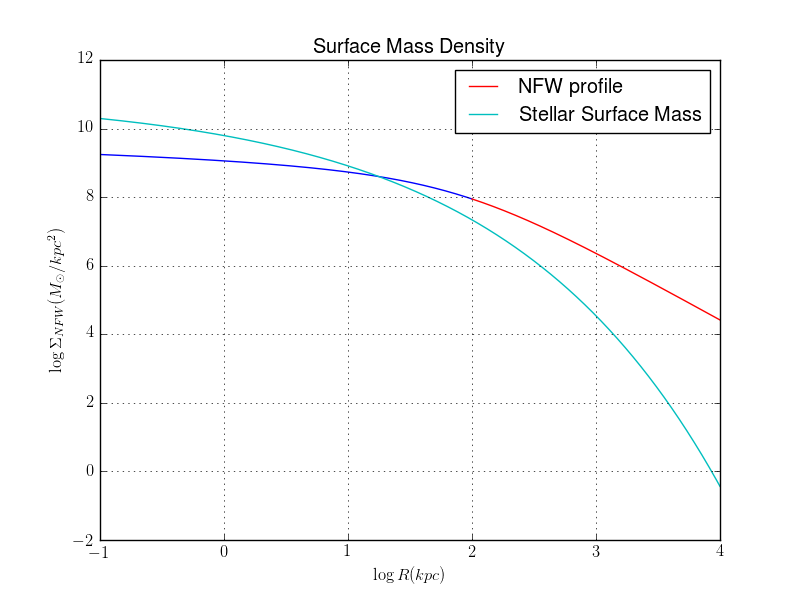
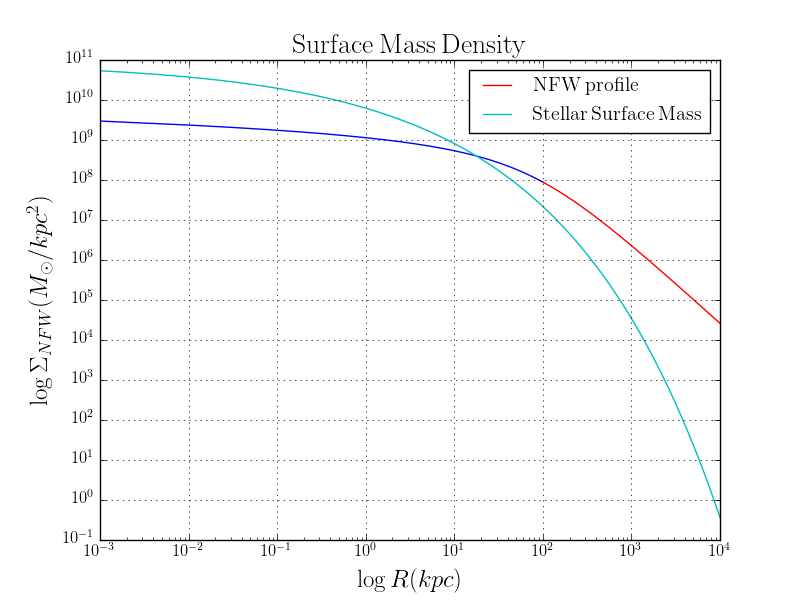
update

diff --git a/plots/Surface_density_log.py b/plots/Surface_density_log.py
@@ -1,9 +1,12 @@
-import numpy as np
-from scipy import integrate
-from scipy.integrate import quad
-import matplotlib as mpl
 import matplotlib.pyplot as plt
+import numpy as np
+import matplotlib as mpl
+import matplotlib.patches as mpatches
+from scipy.integrate import quad
+from scipy import integrate
 mpl.rcParams['text.usetex'] = True
+
+# This plot is made for the cluster ABELL 1068
 
 c        = 4.46                                      # Concentration parameter (Paper Dutton and Maccio) 
 delta_c  = ((200./3)*c**3)/(np.log(1.0+c)-c/(1.0+c)) # Characteristic overdensity of the halo
@@ -12,18 +15,16 @@ r_s      = 100                                       # Characteristic radius (kp
 I_e      = 10**7                                     # Effective brightness I(Re)
 b        = 7.67                                      # Lokas and Mamon paper
 R_e      = 73.7                                      # Half of the total light in kpc
-n_array  = [] 
-f_array  = []
-R        = np.arange(0.01, 10000, 10.)
 
-# MASS ENCLOSED BY LIGHT (DE VAUCOULEURS PROFILE)
+# Mass density profile from NFW density profile:
 
-def surf_bright(r):
-	return 8.0*np.pi*I_e*np.exp( -b*( ( r/R_e )**0.25 - 1.0 ) )
-I1, I1err = quad(surf_bright, 0.1, 10000)
-print 'Luminosity: %e' %(I1)
-# NOW FOR THE MASS OF THE NFW PROFILE
-
+r = np.arange(0.001,99.9,0.01)
+plt.loglog(r,( 2.0*r_s*delta_c*rho_c )/( (r/r_s)**2 - 1.0 ) *( 1.0 - 2.0/( np.sqrt( 1.0 - (r/r_s)**2 ) )*np.arctanh( np.sqrt( ( 1.0-r/r_s )/( 1.0 + r/r_s ) ) ) ))
+r1 = 100
+plt.loglog(r1,2.0*r_s*delta_c*rho_c/3.0)
+r2 = np.arange(100.01,10000,0.01)
+plt.loglog(r2,( 2.0*r_s*delta_c*rho_c )/( (r2/r_s)**2 - 1.0 ) *( 1.0 - 2.0/( np.sqrt( (r2/r_s)**2 - 1.0 ) )*np.arctan( np.sqrt( ( r2/r_s - 1.0 )/( 1 + r2/r_s ) ) ) ),label=r'$\mathrm{NFW\:profile}$')
+"""
 def NFW(r):
 	if (r < r_s):
 		surf_mass = 2.0*np.pi*r/r_s*( ( 2.0*r_s*delta_c*rho_c )/( (r/r_s)**2 - 1.0 ) )*( 1.0 - 2.0/( np.sqrt( 1.0 - (r/r_s)**2 ) )*np.arctanh( np.sqrt( ( 1.0-r/r_s )/( 1.0 + r/r_s ) ) ) )
@@ -32,28 +33,16 @@ def NFW(r):
 	else:
 		surf_mass = 2.0*np.pi*r/r_s*( ( 2.0*r_s*delta_c*rho_c )/( (r/r_s)**2 - 1.0 ) )*( 1.0 - 2.0/( np.sqrt( (r/r_s)**2 - 1.0 ) )*np.arctan( np.sqrt( ( r/r_s - 1.0 )/( 1 + r/r_s ) ) ) )
 	return surf_mass
-I2, I2err = quad(NFW, 0.01, 10000)
-print 'Dark Matter: %e' %(I2)
-	
-def F(val):
-  h = lambda x: surf_bright(x)
-  return integrate.quad(h, 0.1, val)[0]
+"""
+# Mass density profile from M/L ratio and de Vaucouleurs profile:
 
-def N(val):
-  g = lambda y: NFW(y)
-  return integrate.quad(g, 0.1, val)[0]
-      
-for i in range(len(R)):
-   f_array.append(np.log10(F(R[i])))
-   n_array.append(np.log10(N(R[i])))
-    
-plt.plot(np.log10(R), f_array, '-', c = 'r', label = r'$\mathrm{Stellar\:Mass}$')
-plt.plot(np.log10(R), n_array, '-', c = 'b', label = r'$\mathrm{NFW\:Profile\:Mass}$')
+R = np.arange(0.001,10000,0.001)
+plt.loglog(R,4.*I_e*np.exp( -b*( ( R/R_e )**0.25 - 1. ) ),label=r'$\mathrm{Stellar\:Surface\:Mass}$')  #4*I(R) where I(R) is de Vaucouleurs
+
 plt.xlabel(r'$\log R(kpc)$',fontsize=18)
-plt.ylabel(r'$\log M_{\odot }$',fontsize=18)
-plt.title(r'$\mathrm{Enclosed\:Mass}$',fontsize=18)
+plt.ylabel(r'$\log \Sigma_{NFW}(M_{\odot }/ kpc^{2})$',fontsize=18)
+plt.title(r'$\mathrm{Surface\:Mass\:Density}$',fontsize=20)
 plt.grid(True)
-plt.legend(bbox_to_anchor=(0.95, 0.2), loc=1, borderaxespad=0.)
-plt.savefig("Enclosed Mass.png")
-plt.show()
-plt.show()      
+plt.legend()
+plt.savefig("Surface_mass_density_log.png")
+plt.show() 

diff --git a/plots/surface_density_r_025.py b/plots/surface_density_r_025.py
@@ -8,53 +8,31 @@ mpl.rcParams['text.usetex'] = True
 
 # This plot is made for the cluster ABELL 1068
 
-c        = 4.46           # concentration parameter (Paper Dutton and Maccio) this was checked many times 
-delta_c = (200./3)*(c**3)/(np.log(1+c)-c/(1+c))
-rho_c    = 197.8            # Critical density in M_sun/kpc^3 (197.8)
-r_s      = 100            # Characteristic radius (pc) 
-I_e = 10**7
-b        = 7.67           # Lokas and Mamon paper
-R_e      = 73.7             # Half of the total light in kpc
+c        = 4.46                                      # Concentration parameter (Paper Dutton and Maccio) 
+delta_c  = ((200./3)*c**3)/(np.log(1.0+c)-c/(1.0+c)) # Characteristic overdensity of the halo
+rho_c    = 197.8                                     # Critical density in M_sun/kpc^3 (197.8)
+r_s      = 100                                       # Characteristic radius (kpc) 
+I_e      = 10**7                                     # Effective brightness I(Re)
+b        = 7.67                                      # Lokas and Mamon paper
+R_e      = 73.7                                      # Half of the total light in kpc
 
 # Mass density profile from NFW density profile:
 
-x1 = np.arange(0.001,1,0.0001)
+x1 = np.arange(0.001,1,0.001)
 plt.plot((x1*r_s)**0.25,np.log10(((2*r_s*delta_c*rho_c)/((x1*x1)-1))*(1-(2)/(np.sqrt(1-(x1*x1)))*np.arctanh(np.sqrt((1-x1)/(1+x1))))))
 x2 = 1
 plt.plot((x2*r_s)**0.25,np.log10((2*r_s*delta_c*rho_c)/3))
-x3 = np.arange(1.0001,100,0.0001)
-plt.plot((x3*r_s)**0.25,np.log10(((2*r_s*delta_c*rho_c)/((x3*x3)-1))*(1-(2)/(np.sqrt((x3*x3)-1))*np.arctan(np.sqrt((x3-1)/(1+x3))))),label='NFW profile')
+x3 = np.arange(1.0001,100,0.001)
+plt.plot((x3*r_s)**0.25,np.log10(((2*r_s*delta_c*rho_c)/((x3*x3)-1))*(1-(2)/(np.sqrt((x3*x3)-1))*np.arctan(np.sqrt((x3-1)/(1+x3))))),label=r'$\mathrm{NFW\:profile}$')
 
 # Mass density profile from M/L ratio and de Vaucouleurs profile:
 
-R = np.arange(0.1,10000,0.001)
-plt.plot(R**0.25,np.log10(4.*I_e*np.exp( -b*( ( R/R_e )**0.25 - 1. ) )),label='Stellar Surface Mass')  #4*I(R) where I(R) is de Vaucouleurs
+R = np.arange(0.01,10000,0.001)
+plt.plot(R**0.25,np.log10(4.*I_e*np.exp( -b*( ( R/R_e )**0.25 - 1. ) )),label=r'$\mathrm{Stellar\:Surface\:Mass}$')  #4*I(R) where I(R) is de Vaucouleurs
 
-# INTEGRATIONS:
-
-# For the total luminosity:
-
-def surf_bright(r):
-	return 2*np.pi*r*I_e*np.exp(-b*(((r)/(R_e))**(0.25)-1))
-I1, I1err = quad(surf_bright, 0.1, 10000)
-
-print 'Luminosity: %e' %(I1)
-
-# Projected masses found by integrating the projected surface mass density
-
-def NFW1(x):
-	return 2.*np.pi*x*((2.*r_s*delta_c*rho_c)/((x*x)-1.))*(1.-2./(np.sqrt(1.-(x*x)))*np.arctanh(np.sqrt((1.-x)/(1.+x))))
-I2, I2err = quad(NFW1, 0.001, 1)
-
-def NFW2(x):
-	return 2.*np.pi*x*((2.*r_s*delta_c*rho_c)/((x*x)-1.))*(1.-2./(np.sqrt((x*x)-1.))*np.arctan(np.sqrt((x-1.)/(1.+x))))
-I3, I3err = quad(NFW2, 1.001, 100)
-IT = I2+I3
-print 'Dark Matter: %e' %(IT)
-
-plt.xlabel('$R^{1/4}(kpc)$')
-plt.ylabel('$\log \Sigma_{NFW}(M_{\odot }/ kpc^{2})$')
-plt.title('Surface Mass Density')
+plt.xlabel(r'$R^{1/4}(kpc)$',fontsize=18)
+plt.ylabel(r'$\log \Sigma_{NFW}(M_{\odot }/ kpc^{2})$',fontsize=18)
+plt.title(r'$\mathrm{Surface\:Mass\:Density}$',fontsize=20)
 plt.grid(True)
 plt.legend()
 plt.savefig("Surface_mass_density_r025.png")

diff --git a/plots/Shear_vs_radius.py b/plots/Shear_vs_radius.py
@@ -34,9 +34,6 @@ plt.plot(x7*r_s,((r_s*delta_c*rho_c)/(sigma_c3))*( ((8.*np.arctan(np.sqrt((x7-1)
 
 plt.axhline(y=.5, xmin=0., xmax=10., linewidth=1, color = 'k')
 
-#plt.yscale('log')
-#plt.xscale('log')
-#plt.axis((y1,y2,0,3))
 plt.ylim(0,3)
 plt.xlabel('$R(kpc)$')
 plt.ylabel('$\gamma_{NFW}$')
